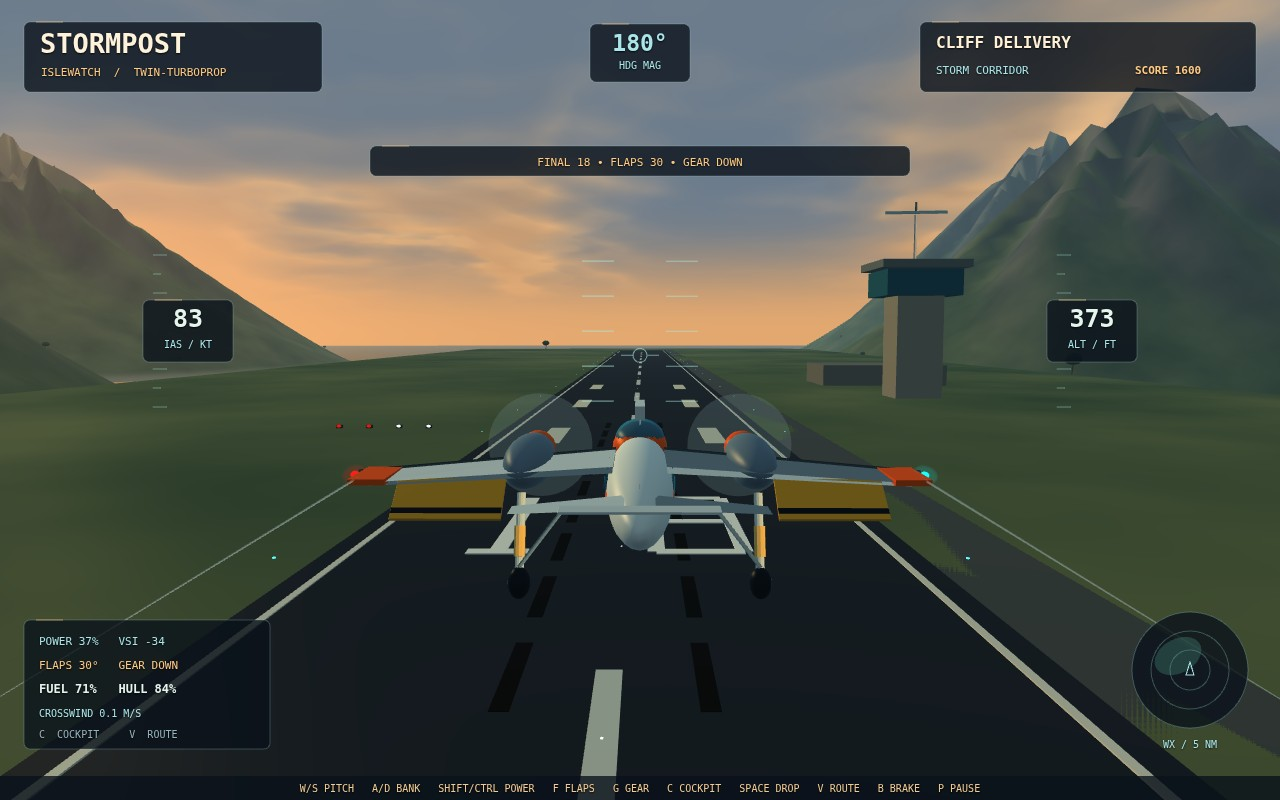
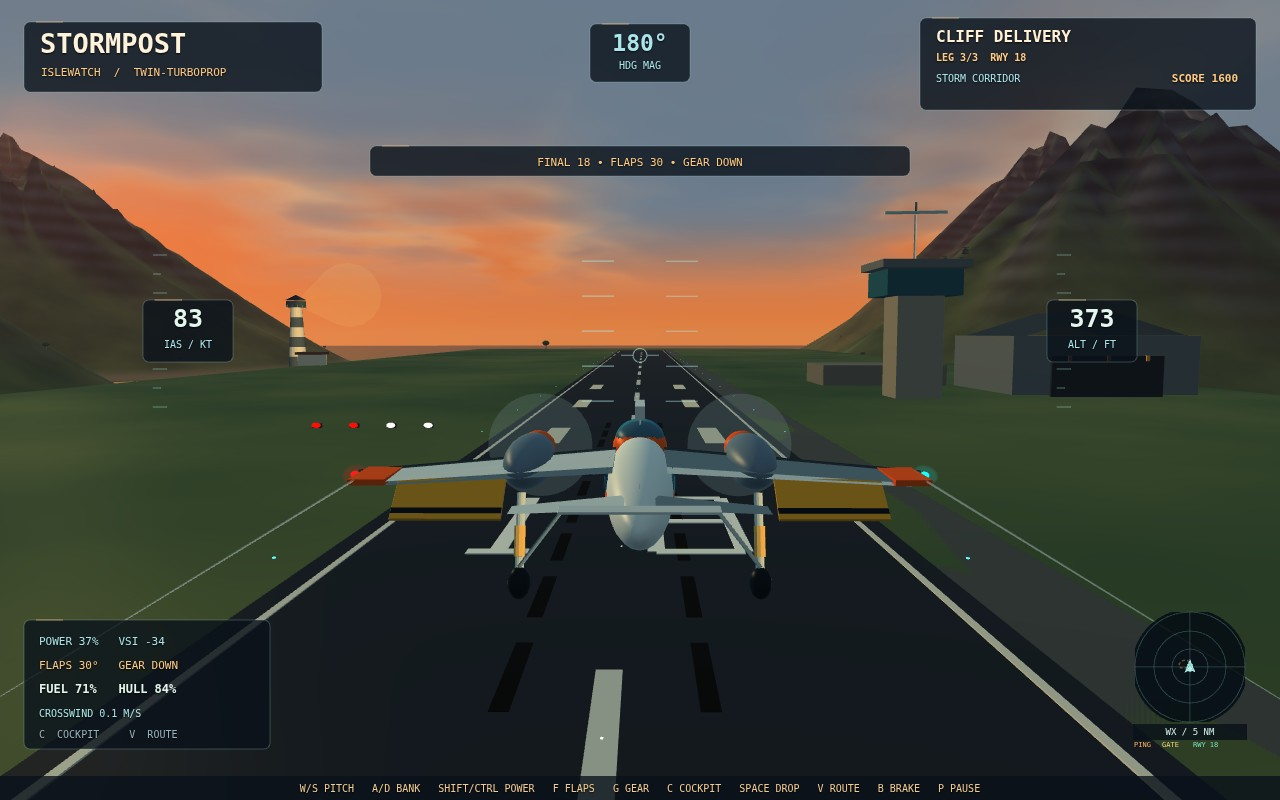
STORMPOST v5: coastal atmosphere, live tactical radar and flown mission polish

Changed region(s): [[0.0, 0.0, 1.0, 0.5], [0.875, 0.75, 1.0, 0.9375]]

diff --git a/game/src/atmosphereShaders.js b/game/src/atmosphereShaders.js
@@ -35,28 +35,43 @@ const vec3 sunlight=vec3(1.,.72,.38);
 const vec3 sun=vec3(-.59,.25,-.77);
 ${noiseField}
 vec3 aerialPerspective(vec3 color,vec3 view){
- float haze=1.-exp(-length(eye-world)*(.00012+storm*.00017));
- float forward=pow(max(dot(-view,normalize(sun)),0.),8.);
- vec3 dusk=mix(vec3(.47,.60,.66),vec3(.88,.65,.42),forward*.7);
- dusk=mix(dusk,vec3(.25,.34,.42),storm*.7);
- return mix(color,dusk,min(.92,haze));
+ float distance=length(eye-world);
+ float haze=1.-exp(-distance*(.000105+storm*.00019));
+ float forward=max(dot(-view,normalize(sun)),0.);
+ float horizon=pow(1.-abs(normalize(view).y),2.);
+ vec3 dusk=mix(vec3(.105,.13,.25),vec3(.91,.49,.26),max(pow(forward,5.)*.62,horizon*.58));
+ dusk=mix(dusk,vec3(.24,.29,.39),storm*.68);
+ return mix(color,dusk,min(.88,haze));
 }
 float waveHeight(vec2 p){return fbm(p+vec2(time*.055,-time*.038))*.65+fbm(p*.51-vec2(time*.024,0.))*.35;}
 void main(){
  vec3 N=normalize(normal),L=normalize(sun),E=normalize(eye-world);
- vec3 albedo=col;
+ vec3 albedo=col,terrainEmission=vec3(0.);
  if(terrain>.5){
   float slope=1.-max(N.y,0.);
-  float variation=fbm(world.xz*.012);
-  vec3 grass=mix(vec3(.16,.25,.16),vec3(.40,.43,.24),variation);
-  vec3 basalt=mix(vec3(.15,.18,.20),vec3(.37,.35,.30),variation);
-  float rock=smoothstep(.13,.45,slope)+smoothstep(300.,800.,world.y)*.45;
-  albedo=mix(grass,basalt,clamp(rock,0.,1.));
-  albedo=mix(vec3(.63,.57,.42),albedo,smoothstep(3.,27.,world.y));
+  float elevation=world.y;
+  float variation=fbm(world.xz*.010);
+  float warp=fbm(world.xz*.0045)*16.;
+  float strata=.5+.5*sin((world.y+world.x*.075+world.z*.021+warp)*.115);
+  vec3 grass=mix(vec3(.10,.22,.14),vec3(.34,.39,.20),variation);
+  vec3 highland=mix(vec3(.13,.28,.18),vec3(.38,.43,.25),fbm(world.xz*.018));
+  vec3 basalt=mix(vec3(.075,.09,.12),vec3(.23,.25,.27),variation);
+  basalt*=.68+strata*.47;
+  float rock=clamp(smoothstep(.12,.43,slope)+smoothstep(280.,760.,elevation)*.62,0.,1.);
+  float alpine=smoothstep(250.,480.,elevation)*(1.-smoothstep(1050.,1420.,elevation));
+  albedo=mix(grass,highland,alpine*.9);
+  albedo=mix(albedo,basalt,rock);
+  float beach=(1.-smoothstep(7.,35.,elevation))*smoothstep(-1.,4.,elevation);
+  albedo=mix(albedo,vec3(.60,.48,.32),beach*.9);
+  float caldera=exp(-pow((length(world.xz-vec2(-1280.,-2050.))-102.)/27.,2.));
+  float rim=caldera*smoothstep(120.,300.,elevation);
+  albedo=mix(albedo,vec3(.78,.29,.075),rim*.55);
+  terrainEmission=vec3(1.,.25,.035)*rim*.48;
  }
  float diffuse=max(dot(N,L),0.);
  float hemi=.5+.5*N.y;
  vec3 color=albedo*(vec3(.21,.27,.32)+vec3(.23,.27,.30)*hemi+sunlight*diffuse*.76);
+ color+=terrainEmission;
  float facing=max(dot(N,E),0.);
  float highlight=pow(max(dot(N,normalize(L+E)),0.),mix(32.,90.,metal));
  color+=sunlight*highlight*(.06+metal*.4);
@@ -106,23 +121,29 @@ ${noiseField}
 float cloudDensity(vec3 p){
  float base=fbm(p.xz*.83+vec2(time*.0013,0.));
  float towers=fbm(p.xz*1.67+vec2(4.1,11.));
+ float shelf=fbm(p.xz*.47+vec2(-time*.0008,7.));
  float height=p.y;
  float crown=.38+towers*.85+storm*.26;
  float profile=smoothstep(.02,.19,height)*(1.-smoothstep(crown-.25,crown,height));
  float body=smoothstep(.38-storm*.1,.64,base+towers*.18);
+ float bank=smoothstep(.50,.72,shelf+towers*.14)*(1.-smoothstep(.83,.98,height));
  float erosion=fbm(p.xz*4.3+vec2(height*2.4,-height*1.8));
- return max(0.,body*profile-erosion*.18)*1.7;
+ return max(0.,(body*profile+bank*.38*(1.-profile*.3))-erosion*.16)*1.55;
 }
 void main(){
  vec3 ray=normalize(forward+right*uv.x*aspect*field+up*uv.y*field);
  vec3 L=normalize(vec3(-.59,.25,-.77));
  float height=max(ray.y,0.);
- vec3 sky=mix(vec3(.89,.66,.44),vec3(.14,.33,.50),pow(smoothstep(0.,.83,height),.6));
+ float zenith=pow(smoothstep(.012,.88,height),.72);
+ vec3 sky=mix(vec3(.94,.50,.25),vec3(.075,.09,.24),zenith);
  float angle=max(dot(ray,L),0.);
- sky+=vec3(.72,.35,.12)*pow(angle,18.)*.3;
- sky=mix(sky,vec3(.18,.26,.34)+height*.06,storm*.84);
- sky+=vec3(1.,.69,.31)*pow(angle,350.)*(1.-storm)*.5;
- sky=mix(sky,vec3(1.,.86,.55),smoothstep(.9994,.99985,angle)*(1.-storm));
+ float haze=exp(-height*34.)*(1.-storm*.72);
+ sky=mix(sky,vec3(.98,.65,.37),haze*.42);
+ sky+=vec3(.30,.34,.62)*pow(angle,7.)*.075;
+ sky+=vec3(1.,.43,.13)*pow(angle,20.)*.34*(1.-storm*.55);
+ sky=mix(sky,vec3(.15,.20,.32)+height*.055,storm*.82);
+ sky+=vec3(1.,.54,.25)*pow(angle,260.)*(1.-storm)*.40;
+ sky=mix(sky,vec3(.99,.77,.50),smoothstep(.9993,.99985,angle)*(1.-storm)*.84);
  if(ray.y>.015){
   float transmittance=1.;vec3 light=vec3(0.);
   for(int i=0;i<10;i++){
@@ -142,5 +163,7 @@ void main(){
  }
  float flash=pow(max(0.,sin(time*1.7)),38.)*storm;
  sky+=vec3(.25,.33,.43)*flash*exp(-length(uv-vec2(-.24,.3))*2.);
- fragment=vec4(sky,1.);
+ float peak=max(max(sky.r,sky.g),sky.b);
+ sky/=1.+max(peak-.82,0.)*.72;
+ fragment=vec4(max(sky,vec3(0.)),1.);
 }`;

diff --git a/game/src/missionDirector.js b/game/src/missionDirector.js
@@ -3,6 +3,14 @@ import {mesh,torus,rod,ellipsoid,box,quad,transform} from './webglEngine.js';
 import {terrainHeight,runway} from './terrainWorld.js';
 export const contracts=['FLARE RESCUE','REEF RELAY','CLIFF DELIVERY'];
 export const rescueZone={x:-300,z:-1150,radius:220};
+export const missionGates=[[-220,345,-550],[-400,420,-1450],[200,300,-2600]];
+export function radarObjectives(s){
+ const ring=s.rings||0,rescueDone=(s.rescues||0)>0||s.contract===3;
+ const gate=s.contract===2&&ring<missionGates.length?missionGates[ring]:null;
+ const leg=rescueDone?'LEG 3/3  RWY 18':s.contract===1||ring>=missionGates.length?'LEG 2/3  RESCUE > RWY 18':'LEG 1/3  GATE > RESCUE > RWY 18';
+ const target=rescueDone?[runway.x,runway.z0+280]:ring>=missionGates.length?[rescueZone.x,rescueZone.z]:gate?[gate[0],gate[2]]:[runway.x,runway.z0+280];
+ return {gate,beacon:rescueDone?null:[rescueZone.x,rescueZone.z],storm:[-525,-1550,900],runway:[runway.x,runway.z0+280],target,leg};
+}
 export function createMissionDirector(engine){
  const ring=mesh(),beacon=mesh(),canopy=mesh(),cargo=mesh(),smoke=mesh();
  torus(ring,[0,0,0],95,2.4,[1,.56,.09]);
@@ -34,8 +42,8 @@ export function createMissionDirector(engine){
   ellipsoid(smoke,[Math.sin(a)*.3,Math.cos(i*2.1)*.3,Math.cos(a)*.3],[.73+i%2*.15,1.1+i%3*.13,.76+i%2*.17],[.75+i%3*.035,.25+i%2*.035,.06],10,14);
  }
  const g=Object.fromEntries(Object.entries({ring,beacon,canopy,cargo,smoke}).map(([k,m])=>[k,engine.upload(m)]));
- const gates=[[-220,345,-550],[-400,420,-1450],[200,300,-2600]],supplies=[];
- return {supplies,gates,reset(){supplies.length=0;},drop(s){
+ const supplies=[];
+ return {supplies,gates:missionGates,reset(){supplies.length=0;},drop(s){
   if(s.status!=='flying'||supplies.length>=3)return false;
   supplies.push({pos:[...s.pos],velocity:[Math.sin(s.heading)*s.speed,0,-Math.cos(s.heading)*s.speed],landed:false,age:0});
   s.drop=true;if(s.contract===2&&s.rings>0)s.contract=1;s.event='SUPPLY CHUTE AWAY — WATCH DRIFT';return true;
@@ -53,7 +61,7 @@ export function createMissionDirector(engine){
     if(success){s.score+=1200;s.rescues=(s.rescues||0)+1;s.contract=3;}
    }
   }
-  const target=gates[s.rings||0];
+  const target=missionGates[s.rings||0];
   if(s.contract===2&&target&&Math.hypot(s.pos[0]-target[0],s.pos[1]-target[1],s.pos[2]-target[2])<95){
    s.rings=(s.rings||0)+1;s.score+=400;s.event=s.rings===3?'RELAY COMPLETE — RETURN RUNWAY 18':'GATE CLEARED +400 — RESCUE BEACON AHEAD';
   }
@@ -68,13 +76,13 @@ export function createMissionDirector(engine){
   const W=ctx.canvas.width,H=ctx.canvas.height;
   ctx.beginPath();ctx.rect(0,H*.465,W,H*.235);ctx.clip();
   for(let i=35;i>=0;i--){
-   const t=i/35,drift=t*t*86;
-   const position=[stormFlare.x-drift+Math.sin(t*9)*t*5,stormFlare.y+3.2+t*48,stormFlare.z-t*12];
+   const t=i/35,drift=Math.pow(t,1.7)*126+Math.sin(t*7.5)*t*15;
+   const position=[stormFlare.x-drift,stormFlare.y+3.2+t*58,stormFlare.z-t*12];
    const p=engine.project(position);
    const edge=engine.project([position[0]+1,position[1],position[2]]);
    if(!p.visible)continue;
-   const r=Math.max(3,Math.min(17,Math.hypot(edge.x-p.x,edge.y-p.y)*(2.5+t*11)));
-   const opacity=.39*Math.pow(1-t,.55),red=Math.round(255-t*81),warm=Math.round(99+t*53),blue=Math.round(29+t*108);
+   const r=Math.max(3,Math.min(22,Math.hypot(edge.x-p.x,edge.y-p.y)*(3.2+t*15)));
+   const opacity=.47*Math.pow(1-t,.48),red=Math.round(255-t*91),warm=Math.round(102+t*62),blue=Math.round(31+t*119);
    const puff=ctx.createRadialGradient(p.x,p.y,0,p.x,p.y,r);
    puff.addColorStop(0,'rgba('+red+','+warm+','+blue+','+opacity+')');
    puff.addColorStop(.42,'rgba('+red+','+warm+','+blue+','+opacity*.68+')');
@@ -90,7 +98,7 @@ export function createMissionDirector(engine){
   }
   ctx.restore();
  },draw(s){
-  for(let i=0;i<gates.length;i++)if(s.contract===2&&i>=(s.rings||0))engine.draw(g.ring,transform(gates[i]),{emission:i===(s.rings||0)?.65:.18});
+  for(let i=0;i<missionGates.length;i++)if(s.contract===2&&i>=(s.rings||0))engine.draw(g.ring,transform(missionGates[i]),{emission:i===(s.rings||0)?.65:.18});
   // Low coastal marker: a bright point source and a narrow wind-carried ribbon.
   // Suppress distant mission smoke after impact so it cannot pierce wreck smoke.
   if(s.status!=='crashed'){

diff --git a/game/src/airfieldLandmarks.js b/game/src/airfieldLandmarks.js
@@ -1,9 +1,23 @@
 // Built coastal navigation: lighthouse, harbor, tower radar, runway lights and windsock.
-import {mesh,box,rod,ellipsoid,transform} from './webglEngine.js';
+import {mesh,box,rod,ellipsoid,transform,quad} from './webglEngine.js';
 export function buildLandmarks(engine,runway,height){
  const stone=[.60,.58,.49],ivory=[.88,.83,.66],dark=[.11,.17,.20],amber=[1,.59,.16];
- const buildings=mesh(),lamps=mesh(),radar=mesh(),sock=mesh(),beam=mesh();
- const lx=180,lz=-950,ly=Math.max(3,height(lx,lz));
+ const buildings=mesh(),lamps=mesh(),radar=mesh(),sock=mesh(),beam=mesh(),trees=mesh();
+ const groves=[[-930,-1480],[-1380,-2460],[1080,-2880],[-2180,-3660],[2050,-4320],[-520,-4700],[800,-5300],[-2780,-5200]];
+ for(let grove=0;grove<groves.length;grove++){
+  const [gx,gz]=groves[grove];
+  for(let i=0;i<11;i++){
+   const a=i*2.399+grove*.67,x=gx+Math.cos(a)*(35+(i%3)*17),z=gz+Math.sin(a)*(38+(i%4)*13),y=height(x,z);
+   if(y<8)continue;
+   const trunk=6+(i%3)*1.5;
+   rod(trees,[x,y,z],[x,y+trunk,z],.8,[.23,.19,.14],7);
+   for(let tier=0;tier<3;tier++){
+    const base=y+trunk-2+tier*7,radius=7.8-tier*.75+(i%3)*.65;
+    rod(trees,[x,base,z],[x,y+trunk+10+tier*1.3,z],radius,[.065+tier*.012,.19+tier*.016,.15+tier*.012],9,.18);
+   }
+  }
+ }
+ const lx=140,lz=-1690,ly=Math.max(3,height(lx,lz));
  for(let j=0;j<6;j++)rod(buildings,[lx,ly+j*8,lz],[lx,ly+(j+1)*8,lz],7-j*.45,j%2?ivory:[.25,.30,.30],18,6.55-j*.45);
  rod(buildings,[lx,ly+48,lz],[lx,ly+53,lz],7.5,dark,20);
  rod(lamps,[lx,ly+49,lz],[lx,ly+52,lz],5,amber,20);
@@ -22,6 +36,23 @@ export function buildLandmarks(engine,runway,height){
   ellipsoid(buildings,[820+j*19,2.5,-1510+j*26],[5,3,13],[.70,.73,.66],8,14);
   box(buildings,[820+j*19,6,-1511+j*26],[6,5,9],ivory);
  }
+ // Three insulated coastal hangars frame the approach without closing the runway corridor.
+ for(const [hx,hz,scale] of [[runway.x+175,-1040,1],[runway.x+182,-1370,.88],[runway.x-184,-1190,.76]]){
+  const gy=runway.y;
+  box(buildings,[hx,gy+13,hz],[82*scale,26*scale,68*scale],[.33,.38,.38]);
+  const half=41*scale,depth=34*scale,wall=gy+26*scale,ridge=gy+39*scale;
+  quad(buildings,[hx-half,wall,hz-depth],[hx, ridge,hz-depth],[hx, ridge,hz+depth],[hx-half,wall,hz+depth],[.42,.46,.43]);
+  quad(buildings,[hx, ridge,hz-depth],[hx+half,wall,hz-depth],[hx+half,wall,hz+depth],[hx,ridge,hz+depth],[.38,.42,.40]);
+  box(buildings,[hx,gy+10*scale,hz+depth+.8],[49*scale,18*scale,1.2],[.085,.13,.15]);
+  for(let k=-1;k<=1;k++)box(buildings,[hx+k*17*scale,gy+18*scale,hz+depth+1.6],[1.2,2.2,1],[.9,.56,.23]);
+ }
+ // A double tank, pump island and pipe run identify the island's fuel depot.
+ for(const [fx,fz] of [[runway.x+300,-1290],[runway.x+300,-1352]]){
+  rod(buildings,[fx,runway.y+1,fz],[fx,runway.y+21,fz],10,[.64,.66,.59],18,10);
+  rod(buildings,[fx-12,runway.y+2,fz],[fx+12,runway.y+2,fz],1.1,[.31,.37,.35],8);
+  box(buildings,[fx,runway.y+1.5,fz+13],[18,3,8],[.24,.29,.28]);
+ }
+ for(let j=0;j<5;j++)box(buildings,[runway.x+265,runway.y+.7,-1260-j*18],[2,.3,12],[.94,.47,.12]);
  const tx=runway.x+110,tz=runway.z0-350,ty=runway.y+73;
  box(radar,[0,0,0],[24,1,1.2],[.63,.78,.73]);
  rod(radar,[0,0,0],[0,4,0],.4,dark,6);
@@ -32,8 +63,9 @@ export function buildLandmarks(engine,runway,height){
   box(buildings,[runway.x+side*19,runway.y+.85,runway.z0-220-j*90],[5,.12,30],ivory);
  }
  for(let z=runway.z0-70;z>runway.z1+30;z-=45)ellipsoid(lamps,[runway.x,runway.y+1,z],[.12,.07,.12],[.68,.88,1],6,8);
- const g=Object.fromEntries(Object.entries({buildings,lamps,radar,sock,beam}).map(([k,m])=>[k,engine.upload(m)]));
+ const g=Object.fromEntries(Object.entries({buildings,lamps,radar,sock,beam,trees}).map(([k,m])=>[k,engine.upload(m)]));
  return {draw(t){
+  engine.draw(g.trees);
   engine.draw(g.buildings);engine.draw(g.lamps,undefined,{emission:1.6});
   engine.draw(g.radar,transform([tx,ty,tz],[0,t*.4,0]),{metal:.5});
   engine.draw(g.sock,transform([runway.x+80,runway.y+22,runway.z0-60],[0,.35+Math.sin(t*.7)*.12,Math.sin(t*2)*.025]));

diff --git a/game/src/avionicsHud.js b/game/src/avionicsHud.js
@@ -1,5 +1,6 @@
 // Translucent flight-deck widgets: sparse primary data, navigation and three-contract debrief.
-import {contracts} from './missionDirector.js';
+import {contracts,radarObjectives} from './missionDirector.js';
+import {drawTacticalRadar} from './tacticalRadar.js';
 const cyan='#a9e5e9',amber='#ffca83',ink='rgba(9,17,25,0.78)';
 function glass(ctx,x,y,w,h){
  ctx.fillStyle=ink;ctx.strokeStyle='rgba(176,217,218,.25)';ctx.lineWidth=1;
@@ -13,8 +14,11 @@ export function drawAvionics(ctx,s,w,h){
  ctx.save();ctx.scale(w/1280,h/800);ctx.textBaseline='alphabetic';ctx.textAlign='left';
  glass(ctx,24,22,298,70);text(ctx,'STORMPOST',40,53,27,'#fff2db','700');
  text(ctx,'ISLEWATCH  /  TWIN-TURBOPROP',41,76,11,amber);
- if(s.status!=='crashed'){glass(ctx,920,22,336,70);text(ctx,contracts[s.contract-1]||contracts[0],936,48,16,'#fff0d6','700');
- text(ctx,s.route,936,74,11,cyan);text(ctx,'SCORE '+s.score,1135,74,11,amber,'700');}
+ if(s.status!=='crashed'){
+  glass(ctx,920,18,336,92);text(ctx,contracts[s.contract-1]||contracts[0],936,42,16,'#fff0d6','700');
+  text(ctx,radarObjectives(s).leg,936,61,10,amber,'700');
+  text(ctx,s.route,936,82,10,cyan);ctx.textAlign='right';text(ctx,'SCORE '+s.score,1238,82,11,amber,'700');ctx.textAlign='left';
+ }
  const speed=Math.round(s.speed*1.944),alt=Math.round(s.pos[1]*3.281),heading=Math.round(((180-s.heading*180/Math.PI)%360+360)%360);
  ctx.textAlign='center';if(s.status!=='crashed'){glass(ctx,590,24,100,58);text(ctx,String(heading).padStart(3,'0')+'°',640,51,23,cyan,'700');text(ctx,'HDG MAG',640,69,10);}
  for(let [x,label,value,unit] of s.status==='crashed'?[]:[[188,'IAS',speed,'KT'],[1092,'ALT',alt,'FT']]){
@@ -39,17 +43,13 @@ export function drawAvionics(ctx,s,w,h){
   text(ctx,'FUEL '+Math.round(s.fuel)+'%   HULL '+Math.round(s.hull)+'%',39,693,12,'#e4f5ed','700');
   text(ctx,'CROSSWIND '+Math.abs(s.wind).toFixed(1)+' M/S',39,717,10);
   text(ctx,'C  COCKPIT     V  ROUTE',39,738,10,'#94b4bc');
-  const rx=1190,ry=670;ctx.fillStyle=ink;ctx.beginPath();ctx.arc(rx,ry,58,0,Math.PI*2);ctx.fill();
-  ctx.strokeStyle='rgba(139,203,205,.32)';for(let r of [20,39,58]){ctx.beginPath();ctx.arc(rx,ry,r,0,Math.PI*2);ctx.stroke();}
-  ctx.fillStyle=s.storm?'rgba(255,182,83,.33)':'rgba(92,180,160,.25)';ctx.beginPath();ctx.ellipse(rx-12,ry-14,25,17,-.5,0,Math.PI*2);ctx.fill();
-  ctx.strokeStyle=cyan;ctx.beginPath();ctx.moveTo(rx,ry-8);ctx.lineTo(rx-4,ry+5);ctx.lineTo(rx+4,ry+5);ctx.closePath();ctx.stroke();
-  ctx.textAlign='center';text(ctx,'WX / 5 NM',rx,748,10);
+  drawTacticalRadar(ctx,s,1190,667);
  }
  ctx.textAlign='center';
  if(s.warning&&s.status==='flying'&&(s.storm||!s.warning.startsWith('WIND SHEAR'))){
   glass(ctx,425,112,430,29);text(ctx,s.warning,640,132,12,amber,'700');
  }
- if(s.event&&s.status==='flying'){const ey=s.camera==='cockpit'?515:(!s.storm&&s.contract===2&&s.rings===1?580:165);glass(ctx,370,ey-19,540,30);text(ctx,s.event,640,ey+1,11,amber);}
+ if(s.event&&s.status==='flying'){const ey=s.camera==='cockpit'?168:(!s.storm&&s.contract===2&&s.rings===1?580:165);glass(ctx,370,ey-19,540,30);text(ctx,s.event,640,ey+1,11,amber);}
  if(s.status!=='flying'){
   const cx=s.status==='crashed'?334:640;glass(ctx,cx-310,635,620,119);
   const lost=s.status==='crashed';text(ctx,lost?'AIRFRAME LOST  /  HULL 0%':s.flare,cx,661,20,lost?'#ffba80':cyan,'700');

diff --git a/game/src/tacticalRadar.js b/game/src/tacticalRadar.js
@@ -1,0 +1,46 @@
+// Compact heading-up radar with live mission and runway guidance.
+import {radarObjectives} from './missionDirector.js';
+export function drawTacticalRadar(ctx,s,x=1190,y=670){
+ const radius=55,scale=radius/9260,heading=s.heading||0,objectives=radarObjectives(s);
+ const point=(wx,wz)=>{
+  const dx=wx-s.pos[0],dz=wz-s.pos[2];
+  const right=dx*Math.cos(heading)+dz*Math.sin(heading);
+  const ahead=dx*Math.sin(heading)-dz*Math.cos(heading);
+  let px=right*scale,py=-ahead*scale,d=Math.hypot(px,py),limit=radius-7;
+  if(d>limit){px*=limit/d;py*=limit/d;}
+  return [x+px,y+py];
+ };
+ const dot=(px,py,r,color)=>{ctx.fillStyle=color;ctx.beginPath();ctx.arc(px,py,r,0,Math.PI*2);ctx.fill();};
+ ctx.save();ctx.beginPath();ctx.arc(x,y,radius+3,0,Math.PI*2);ctx.clip();
+ ctx.fillStyle='rgba(5,14,21,.88)';ctx.fillRect(x-radius,y-radius,radius*2,radius*2);
+ ctx.strokeStyle='rgba(139,203,205,.30)';ctx.lineWidth=.8;
+ for(const r of [18,36,55]){ctx.beginPath();ctx.arc(x,y,r,0,Math.PI*2);ctx.stroke();}
+ ctx.beginPath();ctx.moveTo(x-radius,y);ctx.lineTo(x+radius,y);ctx.moveTo(x,y-radius);ctx.lineTo(x,y+radius);ctx.stroke();
+ const [sx,sy]=point(objectives.storm[0],objectives.storm[1]),stormR=objectives.storm[2]*scale;
+ ctx.strokeStyle=s.storm?'rgba(255,106,57,.95)':'rgba(205,137,75,.46)';ctx.lineWidth=1.6;ctx.setLineDash([3,2]);
+ ctx.beginPath();ctx.ellipse(sx,sy,stormR,stormR*.72,-.32,0,Math.PI*2);ctx.stroke();ctx.setLineDash([]);
+ const [rx,ry]=point(objectives.runway[0],objectives.runway[1]);
+ ctx.strokeStyle='rgba(117,224,185,.82)';ctx.lineWidth=1.2;ctx.setLineDash([4,3]);
+ ctx.beginPath();ctx.moveTo(x,y);ctx.lineTo(rx,ry);ctx.stroke();ctx.setLineDash([]);
+ const angle=Math.atan2(ry-y,rx-x);
+ ctx.beginPath();ctx.moveTo(rx,ry);ctx.lineTo(rx-Math.cos(angle-.55)*6,ry-Math.sin(angle-.55)*6);ctx.lineTo(rx-Math.cos(angle+.55)*6,ry-Math.sin(angle+.55)*6);ctx.closePath();ctx.fillStyle='#75e0b9';ctx.fill();
+ dot(rx,ry,2.5,'#c0ffe7');
+ if(objectives.beacon){
+  const [bx,by]=point(objectives.beacon[0],objectives.beacon[1]),pulse=7+3*(.5+.5*Math.sin((s.elapsed||0)*4));
+  ctx.strokeStyle='rgba(255,179,82,.86)';ctx.lineWidth=1.4;ctx.beginPath();ctx.arc(bx,by,pulse,0,Math.PI*2);ctx.stroke();
+  ctx.strokeStyle='rgba(255,179,82,.42)';ctx.beginPath();ctx.arc(bx,by,pulse*1.55,0,Math.PI*2);ctx.stroke();dot(bx,by,2.4,'#ffc15d');
+ }
+ if(objectives.gate){
+  const [gx,gy]=point(objectives.gate[0],objectives.gate[2]);
+  ctx.strokeStyle='#f4d17f';ctx.lineWidth=1.4;ctx.beginPath();ctx.moveTo(gx,gy-4);ctx.lineTo(gx+4,gy);ctx.lineTo(gx,gy+4);ctx.lineTo(gx-4,gy);ctx.closePath();ctx.stroke();
+ }
+ ctx.strokeStyle='#a9e5e9';ctx.lineWidth=1.5;ctx.beginPath();ctx.moveTo(x,y-6);ctx.lineTo(x-4,y+4);ctx.lineTo(x,y+2);ctx.lineTo(x+4,y+4);ctx.closePath();ctx.stroke();
+ ctx.restore();
+ ctx.textAlign='center';ctx.fillStyle='rgba(8,17,24,.82)';ctx.fillRect(x-radius-2,y+radius+2,radius*2+4,16);
+ ctx.font='9px monospace';ctx.fillStyle='#d5eeee';ctx.fillText('WX / 5 NM',x,y+radius+13);
+ ctx.textAlign='left';ctx.font='7px monospace';
+ ctx.fillStyle='#ffb35d';ctx.fillText('PING',x-radius-1,y+radius+25);
+ ctx.fillStyle='#f4d17f';ctx.fillText('GATE',x-radius+27,y+radius+25);
+ ctx.fillStyle='#75e0b9';ctx.fillText('RWY 18',x-radius+58,y+radius+25);
+ ctx.textAlign='left';
+}

diff --git a/game/src/terrainWorld.js b/game/src/terrainWorld.js
@@ -28,7 +28,7 @@ export function buildWorld(engine){
  const {x,y,z0,z1,width}=runway;box(structures,[x,y-8,(z0+z1)/2],[width+26,16,z0-z1+50],[.24,.26,.24]);box(structures,[x,y+.2,(z0+z1)/2],[width,.5,z0-z1],[.095,.12,.14]);
  for(let z=z0-60;z>z1+60;z-=95)box(structures,[x,y+.6,z],[2,.12,42],[.8,.81,.71]);for(let side of [-1,1]){box(structures,[x+side*(width/2-3),y+.5,(z0+z1)/2],[.8,.15,z0-z1-30],[.86,.84,.71]);for(let i=0;i<7;i++)box(structures,[x+side*(5+i*3.7),y+.7,z0-32],[2.4,.15,42],[.86,.86,.76]);for(let z=z0+180;z>z1;z-=58){let c=z>z0?[.9,.65,.22]:[.2,.65,1];ellipsoid(light,[x+side*(width/2+4),y+1,z],[.24,.12,.24],c,5,6);}for(let z=z0-80;z>z0-260;z-=18)box(structures,[x+side*7,y+.75,z],[1.4,.05,12],[.035,.04,.04]);}
  // Four ground-mounted PAPI housings at the touchdown zone: two white / two red.
- for(let i=0;i<4;i++){box(structures,[x-55-i*8,y+.65,z0-240],[1.6,.8,1.1],[.16,.18,.18]);ellipsoid(light,[x-55-i*8,y+.8,z0-239.4],[.65,.36,.18],i<2?[1,.94,.83]:[1,.025,.008],8,12);}
+ for(let i=0;i<4;i++){box(structures,[x-55-i*10,y+.85,z0-240],[2.2,1.1,1.5],[.16,.18,.18]);ellipsoid(light,[x-55-i*10,y+1.05,z0-239.1],[1.25,.72,.34],i<2?[1,.99,.91]:[1,.025,.008],10,14);}
  box(structures,[x+110,y+21,z0-350],[18,42,18],[.52,.5,.41]);box(structures,[x+110,y+45,z0-350],[29,10,27],[.09,.3,.34]);box(structures,[x+110,y+52,z0-350],[34,3,32],[.34,.39,.37]);rod(structures,[x+110,y+52,z0-350],[x+110,y+72,z0-350],.5,[.65,.64,.6]);box(structures,[x+120,y+5,z0-440],[60,10,40],[.4,.39,.33]);rod(structures,[x+80,y,z0-60],[x+80,y+23,z0-60],.7,[.8,.8,.7]);
  // Painted runway designator and deterministic coastal detail are physical world geometry.
  box(structures,[x-14,y+.9,z0-128],[2,.13,30],[.97,.96,.85]);
